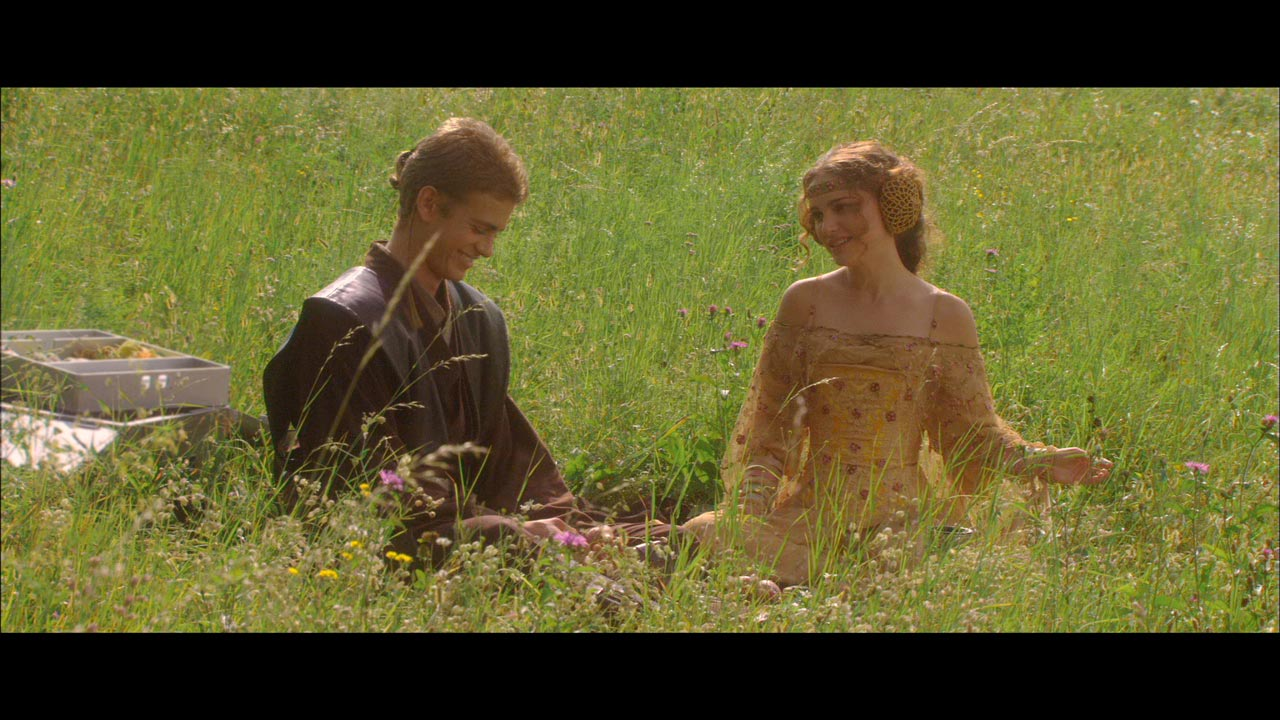
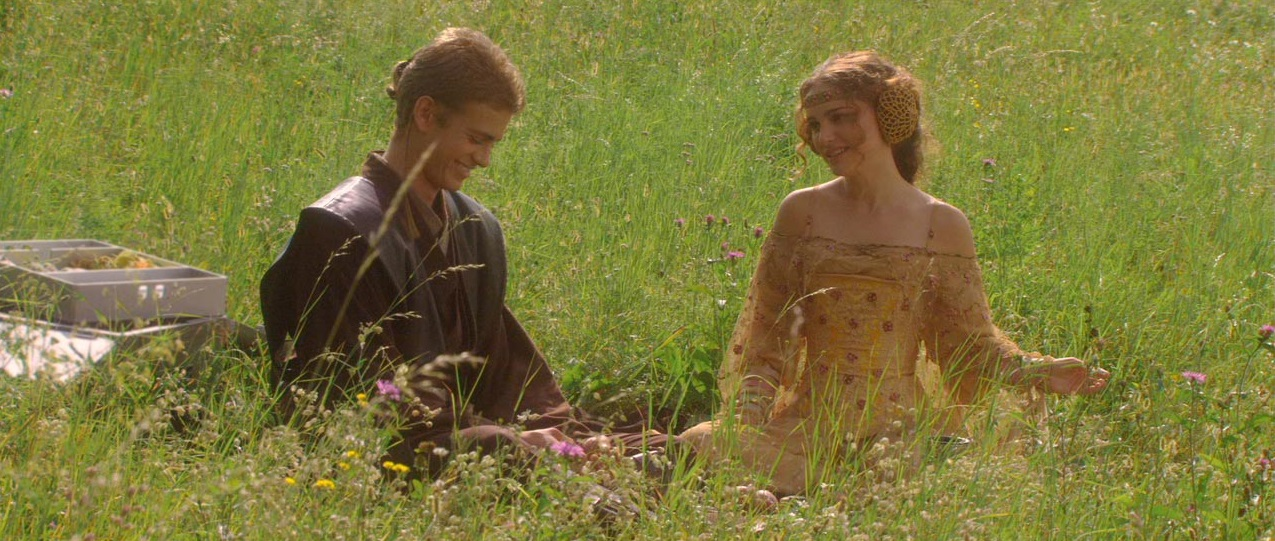
added two images to timeline, fix: close other details when one is opened

diff --git a/assets/js/wiki.js b/assets/js/wiki.js
@@ -41,6 +41,11 @@ for (let i = 0; i < histories.length; i++) {
 
 function expandDetails(index) {
     if (details[index].style.display == "none") {
+        /* hide and other details that are displayed */
+        for (detail of details){
+            detail.style.display= "none";
+        }
+        /* show this one */
         details[index].style.display = "block";
     } else {
         details[index].style.display = "none";
@@ -55,17 +60,14 @@ function updateStlyes() {
         if (i % 2 == 0) {
             if (window.innerWidth < 500) {
                 details[i].style.right = "45vw";
-                details[i].style.color="red";
             } else {
                 details[i].style.right = "30vw";
             }
         } else {
             if (window.innerWidth < 500) {
                 details[i].style.left = "-5vw"
-                details[i].style.color="red";
             } else {
                 details[i].style.left = "10vw"
-                details[i].style.color="white";
             }
         }
     }

diff --git a/wiki.html b/wiki.html
@@ -94,6 +94,7 @@
                       <h2><hr><span class="summary">Born</span></h2>
                       <p class="details">
                         Darth Vader was born Anakin Skywalker to Shmi Skywalker on the planet of Tattooine.
+                      <img src="assets/images/anakin_meal.jpeg">
                       </p>
                   </div>
               </div>
@@ -116,6 +117,7 @@
                         Anakin Skywalker fell in love with Padme Amidala, whom he was assigned to protect as a Jedi apprentice. 
                         Padme and Anakin marry.
                         When Padme falls pregnant, Anakin has visions of her dying in childbirth and fears that these visions are true. Palpatine (who turns out to be Darth Sidious) convinces Anakin that the power of the Dark Side would save Padme. 
+                        <img src="assets/images/anakin_padme.jpeg">
                       </p>
                   </div>
               </div>

diff --git a/assets/css/wiki.css b/assets/css/wiki.css
@@ -11,6 +11,10 @@ main {
   padding: 0;
 }
 
+img{
+  width:100%;
+  padding-top:10px;
+}
 .wiki-timeline {
   padding-bottom: 200px;
 }
@@ -112,6 +116,7 @@ main {
 
 @media screen and (min-width:500px) {
   .history-content p {
-    width: 60vw;
+    width:auto;
+    max-width: 60vw;
   }
 }
